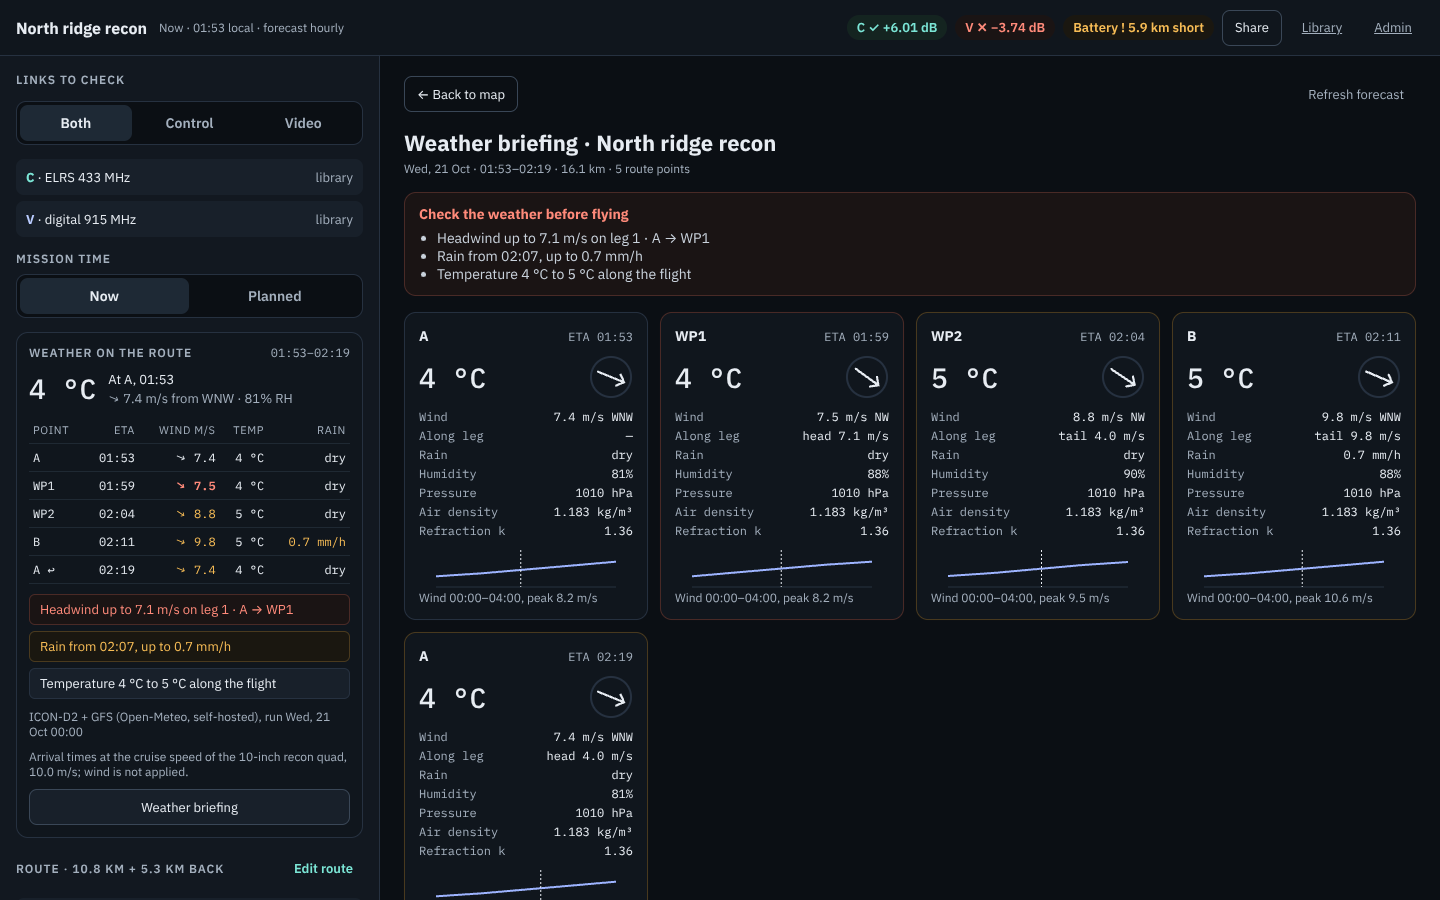
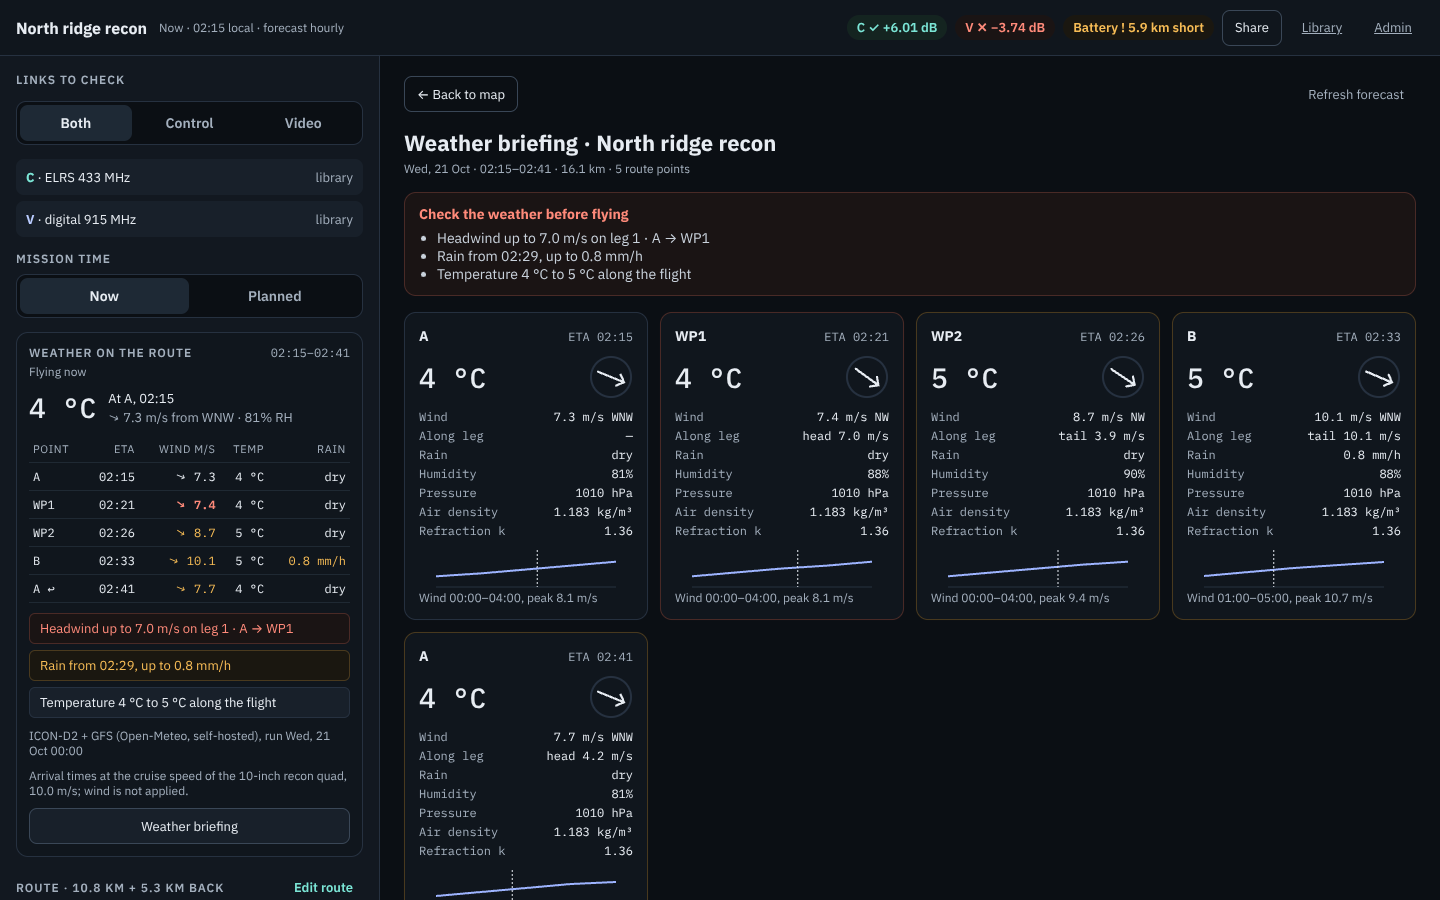
feat(web): weather mode readable on phones; show the planned flight time
- Phone map in weather mode carries a one-line legend and short tags
  (ETA and the coloured value) at each route point; the metric picker
  stays in the weather card, without a second legend
- Weather mode sets the leg result labels aside on the map
- The weather card says which flight it is for (now, or the planned day)
- New screenshot laptop-planned-time.png: mission time set to a planned
  flight, with the weather following it

Claude-Session: https://claude.ai/code/session_01UpGPoe1P7onD8me6xsXZJy

diff --git a/web/projects/fpv-app/src/app/workspace/route-weather-map.component.ts b/web/projects/fpv-app/src/app/workspace/route-weather-map.component.ts
@@ -79,8 +79,17 @@ export class WeatherRibbon {
   selector: 'fpv-route-weather-map',
   imports: [RouteColoursComponent],
   template: `
-    @if (shown() && !compact()) {
-      <fpv-route-colours class="metric" role="group" aria-label="Route colours in weather mode" />
+    @if (shown()) {
+      @if (compact()) {
+        <div class="keys" role="group" [attr.aria-label]="'Route coloured by ' + title()">
+          <b>{{ title() }}</b>
+          @for (k of legend(); track k.label) {
+            <span><i [style.background]="k.color"></i>{{ k.label }}</span>
+          }
+        </div>
+      } @else {
+        <fpv-route-colours class="metric" role="group" aria-label="Route colours in weather mode" />
+      }
     }
     @if (active()) {
       @if (hover(); as h) {
@@ -97,6 +106,11 @@ export class WeatherRibbon {
     :host { position: absolute; inset: 0; pointer-events: none; z-index: 2; }
     .metric { position: absolute; left: 14px; top: 16px; pointer-events: auto; padding: 8px; border-radius: var(--rf-radius-lg); background: rgba(16, 22, 29, 0.95); border: 1px solid var(--rf-border); display: flex; flex-direction: column; gap: 6px; }
 
+    .keys { position: absolute; left: 10px; right: 64px; bottom: 44px; padding: 6px 8px; border-radius: var(--rf-radius-md); background: rgba(16, 22, 29, 0.95); border: 1px solid var(--rf-border); display: flex; flex-wrap: wrap; align-items: center; gap: 3px 10px; font-size: 11px; color: var(--rf-text-2); }
+    .keys b { color: var(--rf-text); font-weight: 600; }
+    .keys span { display: inline-flex; align-items: center; gap: 4px; }
+    .keys i { width: 14px; height: 5px; border-radius: 2px; }
+
     .hover { position: absolute; transform: translate(14px, 14px); max-width: 280px; padding: 8px 10px; border-radius: var(--rf-radius-md); background: rgba(16, 22, 29, 0.97); border: 1px solid var(--rf-border-strong); display: flex; flex-direction: column; gap: 3px; font-size: 12px; font-family: var(--rf-font-mono); color: var(--rf-text); }
     .hover b { font-family: var(--rf-font-sans); font-size: 12px; color: var(--rf-text-2); font-weight: 500; }
   `,
@@ -106,13 +120,15 @@ export class RouteWeatherMapComponent {
   private readonly wx = inject(RouteWeatherService);
   private readonly layers = inject(LayerRegistry);
   private readonly ctx = inject(MapContext);
-  /** Phone: the route colours sit in the weather card and tags are left out, so the small map stays clear; tap instead of hover */
+  /** Phone: the metric picker sits in the weather card, the map keeps a one-line legend and short tags; tap instead of hover */
   readonly compact = input(false);
 
   protected readonly hover = signal<RouteHover | null>(null);
+  protected readonly title = computed(() => WeatherScale.title(this.ws.weatherMetric()));
+  protected readonly legend = computed(() => WeatherScale.legend(this.ws.weatherMetric()));
 
   private readonly layer = new RouteWeatherLayer();
-  private tags: Marker[] = [];
+  private tags: Pick<Marker, 'remove'>[] = [];
 
   /** Weather mode with a route, outside a fix preview (the preview draws its own route). */
   protected readonly shown = computed(() => this.ws.weatherMode() && !this.ws.store.preview() && this.wx.timeline() !== null);
@@ -132,9 +148,10 @@ export class RouteWeatherMapComponent {
     });
     effect(() => {
       const map = this.ctx.map();
-      // phones show the same values in the card right under the map, so the small map stays clear
-      const points = this.active() && !this.compact() ? this.wx.keyPoints() : [];
-      untracked(() => this.drawTags(map, points));
+      const points = this.active() ? this.wx.keyPoints() : [];
+      const metric = this.ws.weatherMetric();
+      const compact = this.compact();
+      untracked(() => this.drawTags(map, points, compact ? metric : null));
     });
     effect(() => {
       if (!this.active()) untracked(() => this.hover.set(null));
@@ -145,7 +162,7 @@ export class RouteWeatherMapComponent {
       off();
       offMap();
       offClick();
-      this.drawTags(null, []);
+      this.drawTags(null, [], null);
     });
   }
 
@@ -207,8 +224,11 @@ export class RouteWeatherMapComponent {
     };
   }
 
-  /** A weather tag above each route point; the return to the pilot shares the pilot's place, so it has none. */
-  private drawTags(map: MlMap | null, points: KeyPointWeatherVm[]): void {
+  /**
+   * A weather tag above each route point; the return to the pilot shares the pilot's place, so it has none.
+   * With a metric (phones) a tag holds the ETA and that value only.
+   */
+  private drawTags(map: MlMap | null, points: KeyPointWeatherVm[], metric: WeatherMetric | null): void {
     this.tags.forEach((m) => m.remove());
     this.tags = [];
     if (!map) return;
@@ -218,16 +238,34 @@ export class RouteWeatherMapComponent {
     for (const p of shown) {
       if (!p.reading) continue;
       const el = document.createElement('div');
-      el.className = `rf-wx-tag is-${p.level}`;
-      el.textContent = this.tagText(p);
+      el.className = `rf-wx-tag is-${p.level}${metric ? ' rf-wx-tag--compact' : ''}`;
+      el.textContent = metric ? `${p.eta} · ${RouteWeatherMapComponent.shortValue(p, metric)}` : this.tagText(p);
       el.setAttribute('aria-hidden', 'true');
-      this.tags.push(new Marker({ element: el, anchor: 'bottom', offset: [0, -20] }).setLngLat([p.point.lon, p.point.lat]).addTo(map));
+      this.tags.push(this.placeTag(map, el, p));
     }
+  }
+
+  protected placeTag(map: MlMap, el: HTMLElement, p: KeyPointWeatherVm): Pick<Marker, 'remove'> {
+    return new Marker({ element: el, anchor: 'bottom', offset: [0, -20] }).setLngLat([p.point.lon, p.point.lat]).addTo(map);
   }
 
   private tagText(p: KeyPointWeatherVm): string {
     const rain = p.rain === 'dry' ? '' : ` · ${p.rain}`;
     return `${p.eta} · ${p.temperature} · ${p.windSpeed} ${p.windCompass}${rain}`;
+  }
+
+  /** The value a phone tag shows for the metric the route is coloured by. */
+  static shortValue(p: KeyPointWeatherVm, metric: WeatherMetric): string {
+    switch (metric) {
+      case 'headwind':
+        return p.alongTrack || p.windSpeed;
+      case 'wind':
+        return `${p.windSpeed} ${p.windCompass}`.trim();
+      case 'temperature':
+        return p.temperature;
+      default:
+        return p.rain;
+    }
   }
 
   private samePlace(a: KeyPointWeatherVm, b: KeyPointWeatherVm): boolean {

diff --git a/web/projects/fpv-app/src/app/workspace/map-stage.component.ts b/web/projects/fpv-app/src/app/workspace/map-stage.component.ts
@@ -41,7 +41,7 @@ import { RouteWeatherMapComponent } from './route-weather-map.component';
   imports: [MapViewComponent, LayerPanelComponent, BaseSwitcherComponent, SlotHostComponent, SegmentedComponent, HeatLegendComponent, RouteWeatherMapComponent],
   template: `
     @if (ws.data.mapConfig(); as cfg) {
-      <rf-map-view class="map" [config]="cfg" label="Mission map" [zoomButtons]="!compact()" (mapReady)="onReady($event)">
+      <rf-map-view class="map" [class.weather-mode]="weatherShown()" [config]="cfg" label="Mission map" [zoomButtons]="!compact()" (mapReady)="onReady($event)">
         <div class="overlay top-right">
           <div class="map-actions">
             <rf-base-switcher />
@@ -110,6 +110,8 @@ import { RouteWeatherMapComponent } from './route-weather-map.component';
   styles: `
     :host { position: relative; display: block; overflow: hidden; }
     .map { position: absolute; inset: 0; }
+    /* weather mode shows the weather, not the link results: the leg result labels step aside */
+    .map.weather-mode ::ng-deep .rf-leg-label { display: none; }
     .overlay { position: absolute; z-index: 3; }
     .top-right { top: 16px; right: 16px; display: flex; flex-direction: column; align-items: flex-end; gap: 8px; max-height: calc(100% - 32px); }
     .map-actions { display: flex; gap: 8px; align-items: center; }
@@ -166,6 +168,8 @@ export class MapStageComponent {
   );
   protected readonly dim = computed(() => !this.ws.mission() && !this.ws.placing());
   protected readonly hasRoute = computed(() => (this.ws.mission()?.waypoints.length ?? 0) > 0);
+  /** Weather mode on the map; a fix preview draws its own route, so it keeps the leg labels */
+  protected readonly weatherShown = computed(() => this.ws.weatherMode() && !this.ws.store.preview());
   protected readonly routeDeltaShown = computed(() => !!this.cmp.result()?.links?.[this.cmp.link()]?.points?.length && !this.ws.store.preview());
   protected readonly droneAgl = computed(() => this.ws.mission()?.coverage?.droneAglM ?? 120);
   protected readonly showHeatLegend = computed(() => !!this.ws.store.coverage()[this.ws.heatLink()] && this.layers.isVisible('results-coverage'));

diff --git a/web/projects/fpv-app/src/app/workspace/route-weather-map.component.spec.ts b/web/projects/fpv-app/src/app/workspace/route-weather-map.component.spec.ts
@@ -27,6 +27,7 @@ describe('RouteWeatherMapComponent', () => {
   let ctx: MapContext;
   const handlers = new Map<string, (e: unknown) => void>();
   const project = ([lon, lat]: [number, number]) => ({ x: lon * 10_000, y: -lat * 10_000 });
+  const canvas = document.createElement('div');
   const fakeMap = {
     project,
     on: (type: string, fn: (e: unknown) => void) => handlers.set(type, fn),
@@ -39,6 +40,11 @@ describe('RouteWeatherMapComponent', () => {
     MockApiHarness.setUp();
     TestBed.configureTestingModule({ providers: [provideMapView()] });
     TestBed.overrideComponent(RouteWeatherMapComponent, { set: { template: '', imports: [] } });
+    // tags go into a plain element instead of MapLibre markers
+    vi.spyOn(RouteWeatherMapComponent.prototype as unknown as { placeTag: (m: MlMap, el: HTMLElement) => unknown }, 'placeTag').mockImplementation((_m, el) => {
+      canvas.append(el);
+      return { remove: () => el.remove() };
+    });
     await MockApiHarness.settle(TestBed.inject(FpvDataService).load());
     wx = TestBed.inject(RouteWeatherService);
     ctx = TestBed.inject(MapContext);
@@ -54,6 +60,8 @@ describe('RouteWeatherMapComponent', () => {
 
   afterEach(() => {
     handlers.clear();
+    canvas.replaceChildren();
+    vi.restoreAllMocks();
     MockApiHarness.tearDown();
   });
 
@@ -84,6 +92,18 @@ describe('RouteWeatherMapComponent', () => {
     handlers.get('mousemove')!({ point: midLeg(0) });
     handlers.get('mouseout')!({});
     expect(vm().hover()).toBeNull();
+  });
+
+  it('tags each route point with its ETA and the value the route is coloured by (phones)', () => {
+    const tags = () => [...canvas.querySelectorAll('.rf-wx-tag')].map((t) => t.textContent);
+    expect(tags()).toHaveLength(4);
+    expect(tags()[1]).toMatch(/^\d\d:\d\d · (head|tail) \d+\.\d m\/s$/);
+    TestBed.inject(FpvWorkspace).weatherMetric.set('temperature');
+    TestBed.tick();
+    expect(tags()[1]).toMatch(/^\d\d:\d\d · -?\d+ °C$/);
+    TestBed.inject(FpvWorkspace).weatherMode.set(false);
+    TestBed.tick();
+    expect(tags()).toHaveLength(0);
   });
 
   it('pins the read-out on a tap near the route (phones)', () => {

diff --git a/web/projects/fpv-app/src/app/panels/route-colours.component.ts b/web/projects/fpv-app/src/app/panels/route-colours.component.ts
@@ -1,4 +1,4 @@
-import { Component, computed, inject } from '@angular/core';
+import { Component, computed, inject, input } from '@angular/core';
 import { SegmentedComponent, WeatherScale } from '@rfmap/ui-kit';
 import { FpvWorkspace } from '../core/fpv-workspace.service';
 import { RouteWeatherService } from '../core/route-weather.service';
@@ -9,14 +9,14 @@ import { RouteWeatherService } from '../core/route-weather.service';
   imports: [SegmentedComponent],
   template: `
     <rf-segmented label="Colour the route by" [options]="metrics" [value]="ws.weatherMetric()" (valueChange)="ws.weatherMetric.set($event)" />
-    @if (coloured()) {
+    @if (!coloured()) {
+      <div class="keys" role="status">{{ note() }}</div>
+    } @else if (keys()) {
       <div class="keys" aria-label="Route colours">
         @for (k of legend(); track k.label) {
           <span><i [style.background]="k.color"></i>{{ k.label }}</span>
         }
       </div>
-    } @else {
-      <div class="keys" role="status">{{ note() }}</div>
     }
   `,
   styles: `
@@ -30,6 +30,8 @@ import { RouteWeatherService } from '../core/route-weather.service';
 export class RouteColoursComponent {
   protected readonly ws = inject(FpvWorkspace);
   private readonly wx = inject(RouteWeatherService);
+  /** Off where the map carries the colour keys itself (phones) */
+  readonly keys = input(true);
 
   protected readonly metrics = WeatherScale.METRICS.map((value) => ({ value, label: WeatherScale.title(value) }));
   protected readonly legend = computed(() => WeatherScale.legend(this.ws.weatherMetric()));

diff --git a/web/projects/fpv-app/src/app/workspace/map-stage.component.spec.ts b/web/projects/fpv-app/src/app/workspace/map-stage.component.spec.ts
@@ -3,6 +3,7 @@ import { afterEach, beforeEach, describe, expect, it } from 'vitest';
 import type { Position } from 'geojson';
 import { Mission, MissionStore, RouteDrawing, RouteResult, provideMapView } from '@rfmap/ui-kit';
 import { coverageGrid, exampleMission, fixAltitude, fixTurnBack, routeResult } from '../mock/reference-case';
+import { FpvWorkspace } from '../core/fpv-workspace.service';
 import { MockApiHarness } from '../tests/mock-api-harness';
 import { MapStageComponent } from './map-stage.component';
 
@@ -36,6 +37,18 @@ describe('MapStageComponent drawing', () => {
   });
 
   afterEach(() => MockApiHarness.tearDown());
+
+  it('sets the leg labels aside in weather mode, but not in a fix preview', () => {
+    const ws = TestBed.inject(FpvWorkspace);
+    const shown = () => (fixture.componentInstance as unknown as { weatherShown: () => boolean }).weatherShown();
+    const m = exampleMission();
+    show(m, null);
+    expect(shown()).toBe(false);
+    ws.weatherMode.set(true);
+    expect(shown()).toBe(true);
+    store.preview.set({ fix: { id: 'x' }, before: m, after: m });
+    expect(shown()).toBe(false);
+  });
 
   it('draws nothing without a mission', () => {
     expect(drawing()).toEqual({ pilot: null, waypoints: [], legs: [] });

diff --git a/web/projects/fpv-app/src/app/panels/weather-card.component.ts b/web/projects/fpv-app/src/app/panels/weather-card.component.ts
@@ -14,8 +14,9 @@ import { RouteColoursComponent } from './route-colours.component';
         <span id="wx-card-title" class="rf-eyebrow">Weather on the route</span>
         <span class="window rf-mono">{{ wx.window() }}</span>
       </div>
+      <div class="rf-caption when">{{ wx.when() }}</div>
       @if (routeColours()) {
-        <fpv-route-colours />
+        <fpv-route-colours [keys]="false" />
       }
       @switch (wx.status()) {
         @case ('loading') {
@@ -89,6 +90,7 @@ import { RouteColoursComponent } from './route-colours.component';
     .card { display: flex; flex-direction: column; gap: 10px; padding: 12px; border-radius: var(--rf-radius-lg); background: var(--rf-surface-1); border: 1px solid var(--rf-border); }
     .head { display: flex; justify-content: space-between; align-items: baseline; gap: 8px; }
     .window { font-size: 12px; color: var(--rf-text-2); }
+    .when { margin-top: -6px; }
     .now { display: flex; align-items: center; gap: 12px; }
     .temp { font-size: 28px; font-weight: 500; }
     .now-text { display: flex; flex-direction: column; gap: 2px; font-size: 13px; }

diff --git a/web/projects/fpv-app/src/app/core/route-weather.service.spec.ts b/web/projects/fpv-app/src/app/core/route-weather.service.spec.ts
@@ -43,6 +43,7 @@ describe('RouteWeatherService', () => {
     expect(wx.status()).toBe('idle');
     expect(wx.keyPoints()).toEqual([]);
     expect(wx.window()).toBe('');
+    expect(wx.when()).toBe('');
   });
 
   it('reads the weather at every route point at its arrival time', async () => {
@@ -60,6 +61,7 @@ describe('RouteWeatherService', () => {
     expect(wx.summary().map((s) => s.key)).toEqual(['wind', 'rain', 'temperature']);
     expect(wx.source()?.model).toContain('Open-Meteo');
     expect(wx.window()).toMatch(/^\d\d:\d\d–\d\d:\d\d$/);
+    expect(wx.when()).toBe('Flying now');
     expect(wx.usedInCalculation()).toBe(true);
     expect(wx.speedMps()).toBe(10);
   });
@@ -69,6 +71,7 @@ describe('RouteWeatherService', () => {
     store.newMission({ ...m, time: { mode: 'planned', utc: new Date(Date.now() + 40 * 86400e3).toISOString() } });
     await loaded();
     expect(wx.beyondForecast()).toBe(true);
+    expect(wx.when()).toMatch(/^Planned flight · \w{3},? \d+ \w{3}$/);
     expect(wx.summary()).toEqual([]);
     expect(wx.source()).toBeNull();
   });

diff --git a/web/projects/fpv-app/src/app/panels/route-colours.component.spec.ts b/web/projects/fpv-app/src/app/panels/route-colours.component.spec.ts
@@ -48,6 +48,17 @@ describe('RouteColoursComponent', () => {
     expect(render().textContent).toContain('dry');
   });
 
+  it('leaves the legend out where the map carries it', async () => {
+    TestBed.inject(MissionStore).newMission(exampleMission());
+    await settle(() => wx.status() === 'ready');
+    const fixture = TestBed.createComponent(RouteColoursComponent);
+    fixture.componentRef.setInput('keys', false);
+    fixture.detectChanges();
+    const el = fixture.nativeElement as HTMLElement;
+    expect(el.querySelector('[aria-label="Route colours"]')).toBeNull();
+    expect(el.querySelectorAll('button')).toHaveLength(4);
+  });
+
   it('says why the route is not coloured: failed or beyond the forecast', async () => {
     const store = TestBed.inject(MissionStore);
     const spy = vi.spyOn(TestBed.inject(RfmapApiClient), 'weatherPoint').mockRejectedValue(new Error('down'));

diff --git a/web/projects/fpv-app/src/app/core/route-weather.service.ts b/web/projects/fpv-app/src/app/core/route-weather.service.ts
@@ -249,6 +249,14 @@ export class RouteWeatherService {
     };
   });
 
+  /** Which flight the weather is for: "Flying now" or "Planned flight · Thu 22 Oct"; empty without a route. */
+  readonly when = computed(() => {
+    const t = this.timeline();
+    const m = this.ws.mission();
+    if (!t || !m) return '';
+    return MissionTimelineBuilder.flownNow(m) ? 'Flying now' : `Planned flight · ${FlightClock.day(t.departureMs)}`;
+  });
+
   /** "15:00–15:27" for the flight, or empty without a route. */
   readonly window = computed(() => {
     const t = this.timeline();

diff --git a/web/projects/ui-kit/styles/rfmap-ui-kit.css b/web/projects/ui-kit/styles/rfmap-ui-kit.css
@@ -515,6 +515,10 @@ code {
   pointer-events: none;
   font-variant-numeric: tabular-nums;
 }
+.rf-wx-tag--compact {
+  padding: 2px 6px;
+  font-size: 10px;
+}
 .rf-wx-tag.is-notable {
   border-color: var(--rf-warn-border);
   background: var(--rf-warn-bg);
